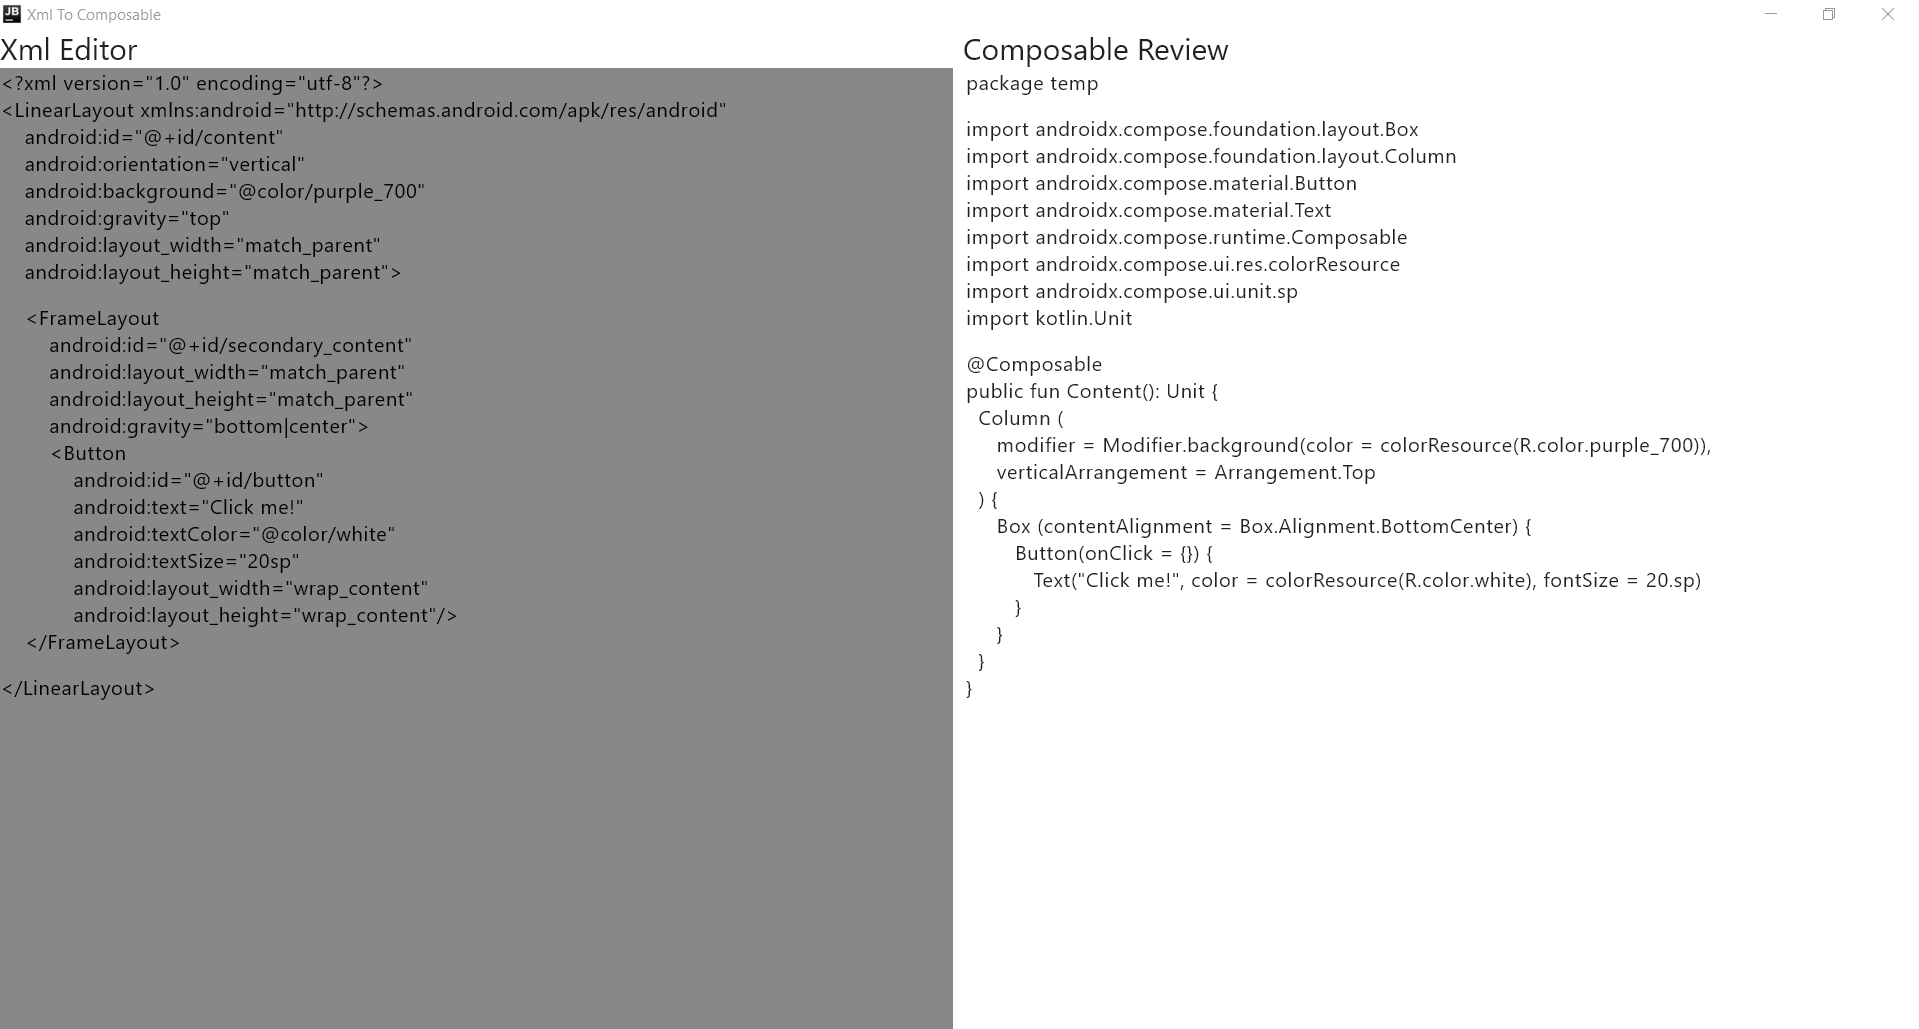
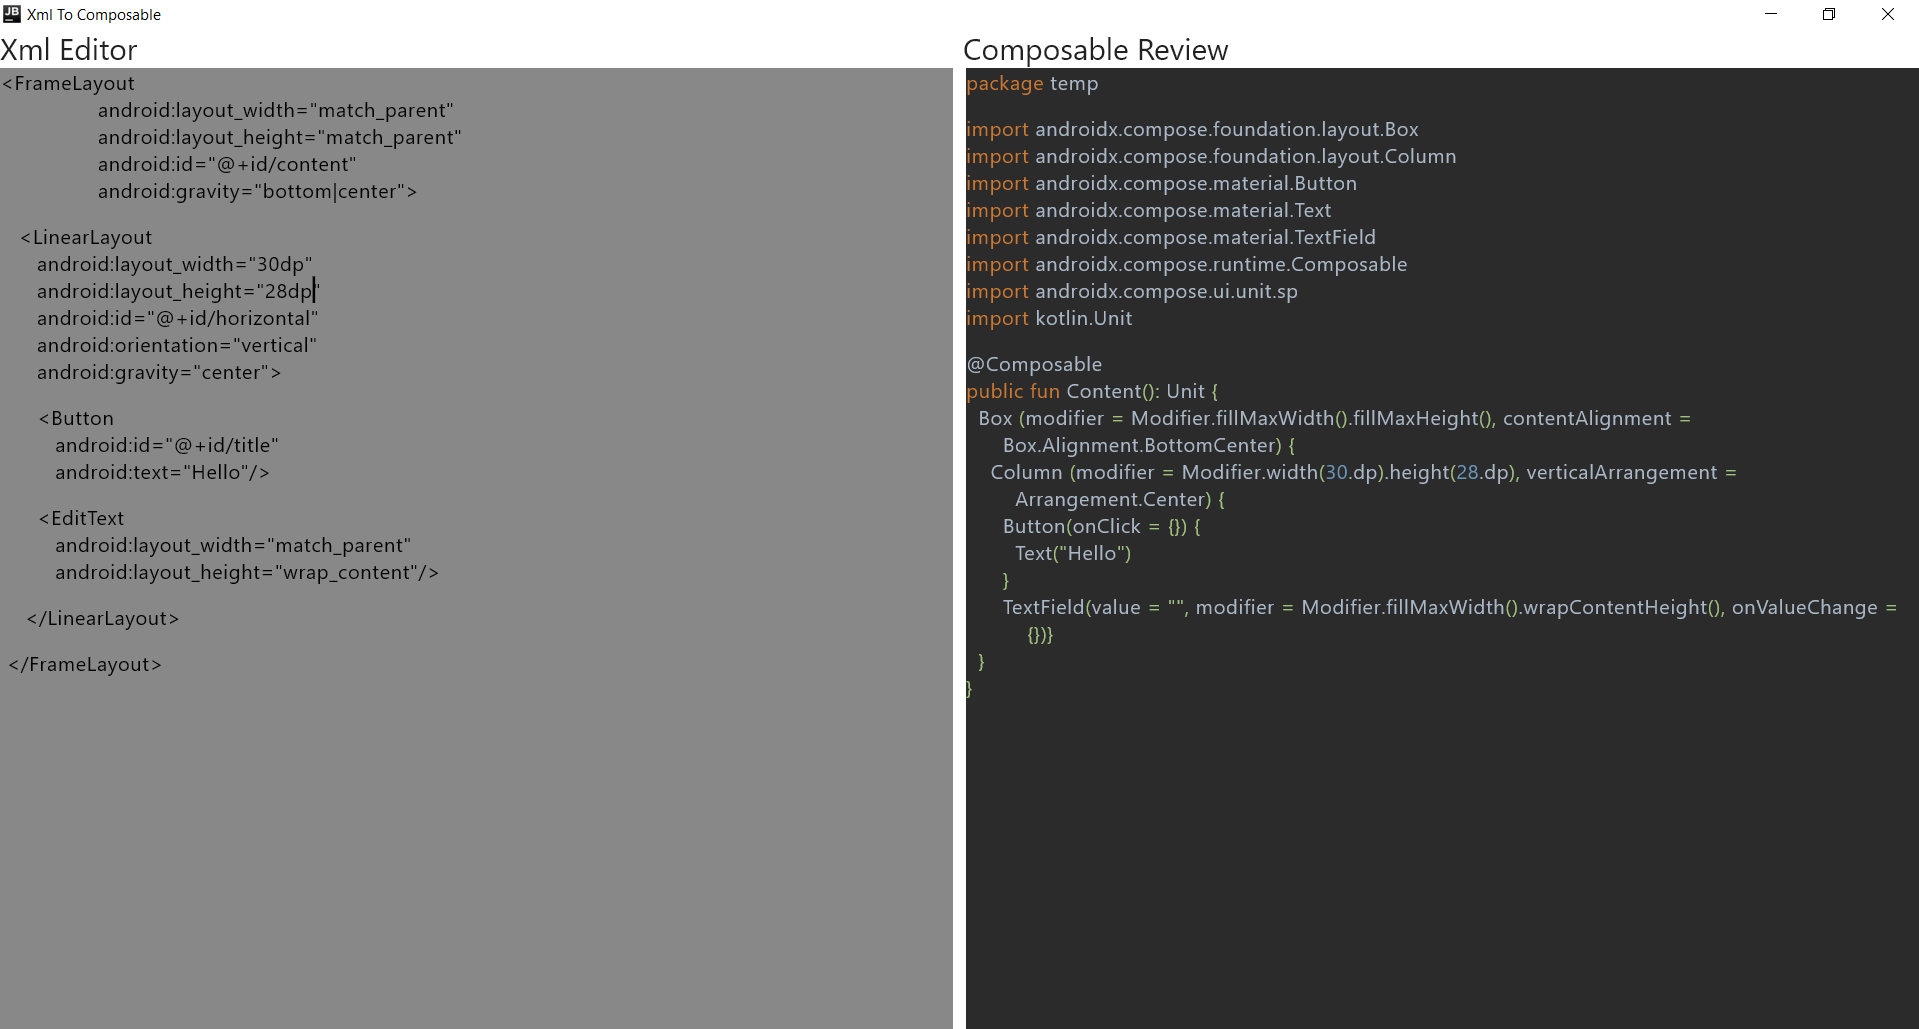
update desktop app

diff --git a/desktop/src/main/kotlin/editor/ComposableEditorView.kt b/desktop/src/main/kotlin/editor/ComposableEditorView.kt
@@ -1,0 +1,48 @@
+import androidx.compose.ui.text.AnnotatedString
+import androidx.compose.ui.text.SpanStyle
+import androidx.compose.ui.text.buildAnnotatedString
+import androidx.compose.ui.text.withStyle
+import theme.AppTheme
+
+fun codeString(str: String) = buildAnnotatedString {
+    withStyle(AppTheme.code.simple) {
+        val strFormatted = str.replace("\t", "    ")
+        append(strFormatted)
+        addStyle(AppTheme.code.punctuation, strFormatted, ":")
+        addStyle(AppTheme.code.punctuation, strFormatted, "=")
+        addStyle(AppTheme.code.punctuation, strFormatted, "\"")
+        addStyle(AppTheme.code.punctuation, strFormatted, "[")
+        addStyle(AppTheme.code.punctuation, strFormatted, "]")
+        addStyle(AppTheme.code.punctuation, strFormatted, "{")
+        addStyle(AppTheme.code.punctuation, strFormatted, "}")
+        addStyle(AppTheme.code.punctuation, strFormatted, "(")
+        addStyle(AppTheme.code.punctuation, strFormatted, ")")
+        addStyle(AppTheme.code.punctuation, strFormatted, ",")
+        addStyle(AppTheme.code.keyword, strFormatted, "fun ")
+        addStyle(AppTheme.code.keyword, strFormatted, "val ")
+        addStyle(AppTheme.code.keyword, strFormatted, "var ")
+        addStyle(AppTheme.code.keyword, strFormatted, "private ")
+        addStyle(AppTheme.code.keyword, strFormatted, "public ")
+        addStyle(AppTheme.code.keyword, strFormatted, "internal ")
+        addStyle(AppTheme.code.keyword, strFormatted, "for ")
+        addStyle(AppTheme.code.keyword, strFormatted, "expect ")
+        addStyle(AppTheme.code.keyword, strFormatted, "actual ")
+        addStyle(AppTheme.code.keyword, strFormatted, "import ")
+        addStyle(AppTheme.code.keyword, strFormatted, "package ")
+        addStyle(AppTheme.code.value, strFormatted, "true")
+        addStyle(AppTheme.code.value, strFormatted, "false")
+        addStyle(AppTheme.code.value, strFormatted, Regex("[0-9]*"))
+        addStyle(AppTheme.code.annotation, strFormatted, Regex("^@[a-zA-Z_]*"))
+        addStyle(AppTheme.code.comment, strFormatted, Regex("^\\s*//.*"))
+    }
+}
+
+private fun AnnotatedString.Builder.addStyle(style: SpanStyle, text: String, regexp: String) {
+    addStyle(style, text, Regex.fromLiteral(regexp))
+}
+
+private fun AnnotatedString.Builder.addStyle(style: SpanStyle, text: String, regexp: Regex) {
+    for (result in regexp.findAll(text)) {
+        addStyle(style, result.range.first, result.range.last + 1)
+    }
+}

diff --git a/desktop/src/main/kotlin/theme/AppTheme.kt b/desktop/src/main/kotlin/theme/AppTheme.kt
@@ -1,0 +1,41 @@
+package theme
+
+import androidx.compose.material.darkColors
+import androidx.compose.ui.graphics.Color
+import androidx.compose.ui.text.SpanStyle
+
+object AppTheme {
+    val colors: Colors = Colors()
+
+    val code: Code = Code()
+
+    val xmlCode: XmlCode = XmlCode()
+
+    class Colors(
+        val backgroundDark: Color = Color(0xFF2B2B2B),
+        val backgroundMedium: Color = Color(0xFF3C3F41),
+        val backgroundLight: Color = Color(0xFF4E5254),
+
+        val material: androidx.compose.material.Colors = darkColors(
+            background = backgroundDark,
+            surface = backgroundMedium,
+            primary = Color.White
+        ),
+    )
+
+    class XmlCode(
+        val viewType: SpanStyle = SpanStyle(Color(0xFFBBB529)),
+        val prefix: SpanStyle = SpanStyle(Color.Black),
+        val attributeValue: SpanStyle = SpanStyle(Color(0xFF6897BB)),
+        val simple: SpanStyle = SpanStyle(Color.White)
+    )
+
+    class Code(
+        val simple: SpanStyle = SpanStyle(Color(0xFFA9B7C6)),
+        val value: SpanStyle = SpanStyle(Color(0xFF6897BB)),
+        val keyword: SpanStyle = SpanStyle(Color(0xFFCC7832)),
+        val punctuation: SpanStyle = SpanStyle(Color(0xFFA1C17E)),
+        val annotation: SpanStyle = SpanStyle(Color(0xFFBBB529)),
+        val comment: SpanStyle = SpanStyle(Color(0xFF808080))
+    )
+}

diff --git a/desktop/src/main/kotlin/editor/XmlEditorView.kt b/desktop/src/main/kotlin/editor/XmlEditorView.kt
@@ -1,0 +1,29 @@
+package editor
+
+import androidx.compose.ui.text.AnnotatedString
+import androidx.compose.ui.text.SpanStyle
+import androidx.compose.ui.text.buildAnnotatedString
+import androidx.compose.ui.text.withStyle
+import theme.AppTheme
+
+fun xmlCode(str: String) = buildAnnotatedString {
+    withStyle(AppTheme.xmlCode.simple) {
+        val strFormatted = str.replace("\t", "    ")
+        append(strFormatted)
+        addStyle(AppTheme.xmlCode.viewType, strFormatted, "^<[a-zA-Z_.]*")
+        addStyle(AppTheme.xmlCode.prefix, strFormatted, "android:")
+        addStyle(AppTheme.xmlCode.prefix, strFormatted, "app:")
+        addStyle(AppTheme.xmlCode.prefix, strFormatted, "tools:")
+        addStyle(AppTheme.xmlCode.attributeValue, strFormatted, "([\"'])(?:(?=(\\\\?))\\2.)*?\\1")
+    }
+}
+
+private fun AnnotatedString.Builder.addStyle(style: SpanStyle, text: String, regexp: String) {
+    addStyle(style, text, Regex.fromLiteral(regexp))
+}
+
+private fun AnnotatedString.Builder.addStyle(style: SpanStyle, text: String, regexp: Regex) {
+    for (result in regexp.findAll(text)) {
+        addStyle(style, result.range.first, result.range.last + 1)
+    }
+}

diff --git a/desktop/src/main/kotlin/main.kt b/desktop/src/main/kotlin/main.kt
@@ -12,11 +12,15 @@ import androidx.compose.runtime.mutableStateOf
 import androidx.compose.runtime.remember
 import androidx.compose.ui.Modifier
 import androidx.compose.ui.graphics.Color
+import androidx.compose.ui.text.AnnotatedString
+import androidx.compose.ui.text.input.TextFieldValue
 import androidx.compose.ui.unit.dp
 import androidx.compose.ui.window.Window
 import androidx.compose.ui.window.application
 import androidx.compose.ui.window.rememberWindowState
+import editor.xmlCode
 import readers.XmlReaderImpl
+import theme.AppTheme
 
 fun main() = application {
     val xmlReader = XmlReaderImpl()
@@ -50,8 +54,8 @@ private fun EditorBody(xmlReader: XmlReaderImpl) {
         XmlEditor(xmlValue, xmlReader, composableValue)
         Spacer(Modifier.width(1.dp).fillMaxHeight())
         Text(
-            text = composableValue.value,
-            modifier = Modifier.weight(1F).fillMaxHeight(),
+            text = codeString(composableValue.value),
+            modifier = Modifier.weight(1F).background(AppTheme.colors.backgroundDark).fillMaxHeight(),
         )
     }
 }

diff --git a/core/src/main/kotlin/generators/nodes/TextViewNode.kt b/core/src/main/kotlin/generators/nodes/TextViewNode.kt
@@ -22,7 +22,7 @@ class TextViewNode(
     }
 
     override fun body(): CodeBlock {
-        val instance = ClassName("", "Text")
+        val instance = ClassName("androidx.compose.material", "Text")
         val paramCodeBlocks = mutableListOf<CodeBlock>()
         paramCodeBlocks.add(CodeBlock.of(""""${info.text}""""))
 
@@ -54,7 +54,6 @@ class TextViewNode(
 
     override fun imports(): Iterable<ClassName> {
         return listOf(
-            ClassName("androidx.compose.material", "Text"),
             ClassName("androidx.compose.ui.unit", "sp")
         ) + info.textColor.imports()
     }

diff --git a/core/src/main/kotlin/generators/nodes/FrameLayoutNode.kt b/core/src/main/kotlin/generators/nodes/FrameLayoutNode.kt
@@ -22,7 +22,7 @@ class FrameLayoutNode(
     }
 
     override fun body(): CodeBlock {
-        val instance = ClassName("", "Box")
+        val instance = ClassName("androidx.compose.foundation.layout", "Box")
         val paramCodeBlocks = mutableListOf<CodeBlock>()
         val modifiers = ChainedCodeBlock(
             "modifier = Modifier.",

diff --git a/core/src/main/kotlin/generators/nodes/EditTextNode.kt b/core/src/main/kotlin/generators/nodes/EditTextNode.kt
@@ -23,7 +23,7 @@ class EditTextNode(
     }
 
     override fun body(): CodeBlock {
-        val instance = ClassName("", "TextField")
+        val instance = ClassName("androidx.compose.material", "TextField")
         val paramCodeBlocks = mutableListOf<CodeBlock>()
         paramCodeBlocks.add(CodeBlock.of("value = \"\""))
 
